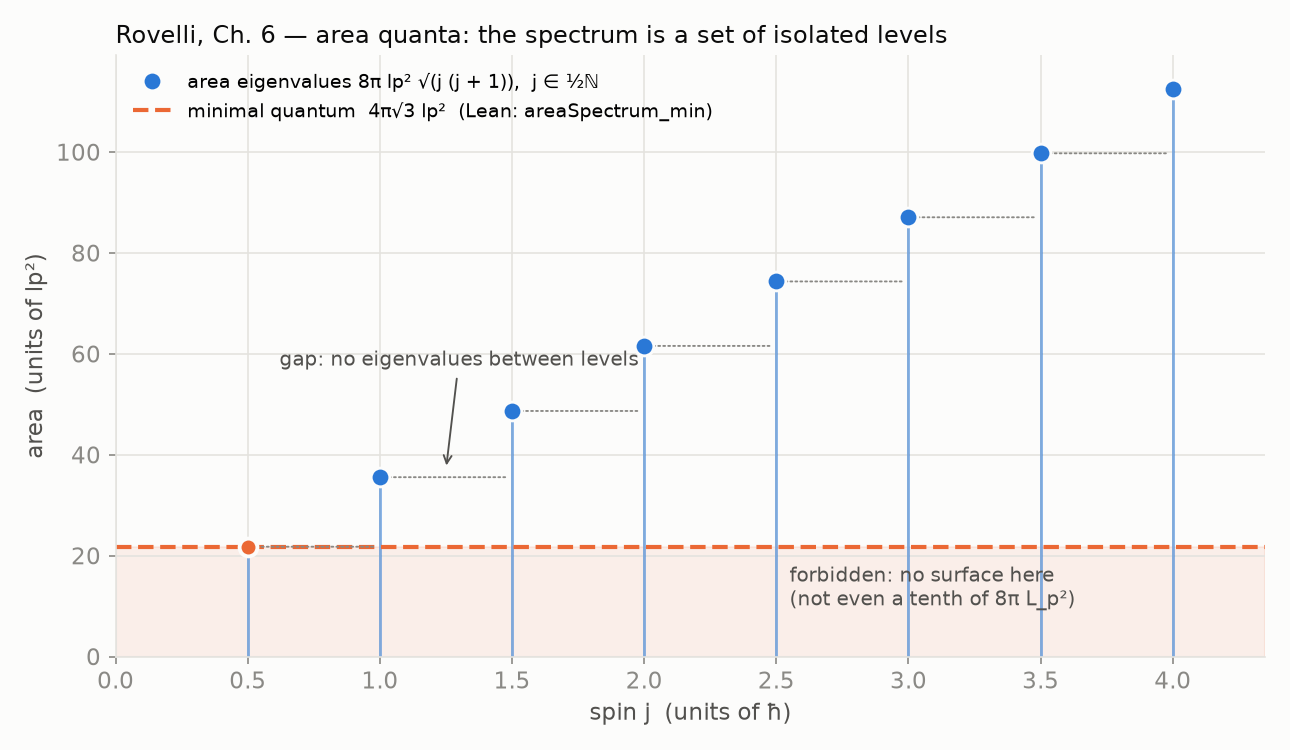
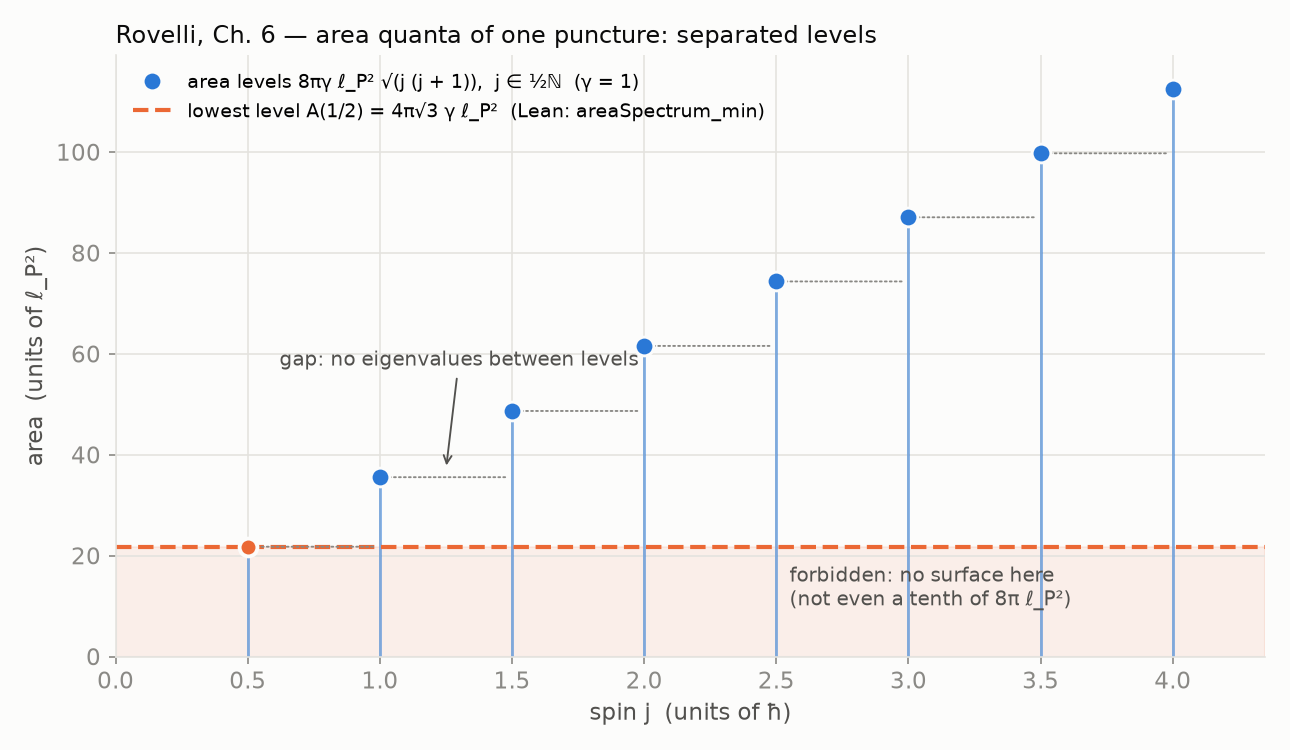
docs: exact theta_NRS(d) in figures and page, ceiling never attained

diff --git a/docs/index.html b/docs/index.html
@@ -4,7 +4,7 @@
 <meta charset="utf-8">
 <meta name="viewport" content="width=device-width, initial-scale=1">
 <title>NRS³ · Rovelli — area quanta and the localization ceiling</title>
-<meta name="description" content="The LQG area spectrum 8πγ lp²√(j(j+1)) is a ladder of isolated levels — no surface below one quantum. In NRS³ the localization angle θ(ψ) is capped by arccos(1/C∞) ≈ 28.30°; the graviton saturates the ceiling.">
+<meta name="description" content="The LQG area spectrum 8πγ lp²√(j(j+1)) is a ladder of isolated levels — no surface below one quantum. In NRS³ the localization angle θ(ψ) is capped by arccos(1/C∞) ≈ 28.30°; the ceiling is a limit no axis reaches. Horizon entropy by counting punctures fixes the Immirzi parameter.">
 <style>
   :root { --bg: #fcfcfb; --panel: #fff; --ink: #0b0b0b; --ink2: #52514e; --muted: #8a8985;
     --grid: #e4e3df; --blue: #2a78d6; --orange: #eb6834; --soft: rgba(235,104,52,.12); }
@@ -55,62 +55,65 @@
   <h1>NRS³ · Rovelli — area quanta and the localization ceiling</h1>
   <p class="lead">In loop quantum gravity (Rovelli, <i>La realidad no es lo que parece</i>, Ch. 6)
     a surface can only have area <code>A(j) = 8 π γ lp² √(j (j + 1))</code> with
-    <code>j ∈ ½ ℕ</code>: a ladder of isolated levels, with nothing — not even a tenth of
-    <code>8 π L_p²</code> — in between. In NRS³ this granularity is dimensional uncertainty: the
-    localization angle <code>θ(ψ)</code> of a state is capped by
-    <code>arccos(1/C∞) ≈ 28.30°</code>, and the graviton is the state that saturates the cap.</p>
+    <code>j ∈ ½ ℕ</code>: one puncture gives a ladder of separated levels, and no surface carries
+    a fraction of the lowest one. In NRS³ this granularity is dimensional uncertainty: the NRS
+    angle <code>θ_NRS(d) = arccos(1/C_Nava(d))</code> of an axis with <code>d</code> sites is
+    <code>0</code> for <code>d = 2, 3</code>, <code>7.43°</code> at <code>d = 4</code>, and grows toward
+    <code>arccos(1/C∞) ≈ 28.30°</code> without ever reaching it.</p>
 
   <div class="controls">
     <button type="button" id="play" aria-label="Play">▶</button>
     <label class="sl">spin j<input id="j" type="range" min="1" max="12" step="1" value="1"><b id="vj">½</b></label>
-    <label class="sl">θ(ψ) toward the ceiling<input id="th" type="range" min="0" max="28.3" step="0.05" value="7.43"><b id="vth">7.43°</b></label>
+    <label class="sl">sites d of the axis<input id="dd" type="range" min="0" max="1000" step="1" value="81"><b id="vd">4</b></label>
   </div>
 
   <div class="grid">
-    <div class="card"><h2>The area spectrum: isolated levels (units 8π lp², γ = 1)</h2>
+    <div class="card"><h2>The area spectrum of one puncture (units ℓ_P², γ = 1)</h2>
       <div class="legend">
         <span><span class="sw" style="border-color:var(--blue)"></span>area levels A(j)</span>
-        <span><span class="sw" style="border-color:var(--orange);border-top-style:dashed"></span>minimal quantum 4π√3 lp²</span>
+        <span><span class="sw" style="border-color:var(--orange);border-top-style:dashed"></span>lowest level A(1/2) = 4π√3 ℓ_P²</span>
         <span><span class="sw" style="border-color:var(--ink);border-top-style:dotted"></span>gap: no eigenvalues</span></div>
       <canvas id="spec" aria-label="LQG area spectrum stem plot"></canvas></div>
-    <div class="card"><h2>θ(ψ) against the NRS³ ceiling</h2>
+    <div class="card"><h2>θ_NRS(d) against the NRS³ ceiling</h2>
       <div class="legend">
-        <span><span class="sw" style="border-color:var(--blue)"></span>your state</span>
-        <span><span class="sw" style="border-color:var(--orange);border-top-style:dashed"></span>ceiling arccos(1/C∞) ≈ 28.30°</span>
-        <span><span class="sw" style="border-color:var(--orange);border-top-style:dotted"></span>graviton: saturates the ceiling</span></div>
+        <span><span class="sw" style="border-color:var(--blue)"></span>θ_NRS(d), exact (D37b)</span>
+        <span><span class="sw" style="border-color:var(--orange);border-top-style:dashed"></span>ceiling arccos(1/C∞) ≈ 28.30°: limit, never attained</span></div>
       <canvas id="gauge" aria-label="Localization angle gauge"></canvas></div>
   </div>
 
   <div class="readout" aria-live="polite">
     <div class="stat"><div class="k">area A(j)</div><div class="v" id="ra">–</div></div>
-    <div class="stat"><div class="k">quanta of 4π√3 lp²</div><div class="v" id="rn">–</div></div>
-    <div class="stat"><div class="k">θ(ψ)</div><div class="v" id="rt">–</div></div>
+    <div class="stat"><div class="k">A(j) / A(1/2)</div><div class="v" id="rn">–</div></div>
+    <div class="stat"><div class="k">θ_NRS(d)</div><div class="v" id="rt">–</div></div>
     <div class="stat"><div class="k">distance to the ceiling</div><div class="v" id="rd">–</div></div>
   </div>
 
   <h2>Results</h2>
   <table>
     <tr><th>Statement</th><th>Lean</th></tr>
-    <tr><td><code>A(j) = 8 π γ lp² √(j (j + 1))</code></td><td><code>areaSpectrum</code></td></tr>
-    <tr><td>separated levels: <code>0 ≤ j ≤ k</code> gives <code>A(j) ≤ A(k)</code></td><td><code>areaSpectrum_mono</code></td></tr>
-    <tr><td>every level with <code>j ≥ 1/2</code> dominates <code>4 π √3 γ lp²</code></td><td><code>areaSpectrum_min</code></td></tr>
-    <tr><td>entropy of a cut = logarithm of its puncture count</td><td><code>punctureEntropy</code></td></tr>
-    <tr><td><code>θ(ψ) ≤ arccos(1/C)</code>, the universal ceiling ≈ 28.30° (declared)</td><td><code>theta_le_ceiling</code></td></tr>
-    <tr><td>area quanta are counted δ∞ quanta (declared)</td><td><code>areaQuanta_are_defectQuanta</code></td></tr>
-    <tr><td>the graviton saturates the ceiling (declared)</td><td><code>graviton_saturates_ceiling</code></td></tr>
+    <tr><td><code>A(j) = 8 π γ ℓ_P² √(j (j + 1))</code>, Immirzi <code>γ</code> generic</td><td><code>areaSpectrum</code></td></tr>
+    <tr><td>separated levels: <code>0 ≤ j &lt; k</code> gives <code>A(j) &lt; A(k)</code></td><td><code>areaSpectrum_strictMono</code></td></tr>
+    <tr><td>lowest level <code>A(1/2) = 4 π √3 γ ℓ_P²</code>, below every <code>j ≥ 1/2</code></td><td><code>areaSpectrum_half</code>, <code>areaSpectrum_min</code></td></tr>
+    <tr><td><code>n</code> punctures have area <code>≥ n · A(1/2)</code></td><td><code>surfaceArea_ge</code></td></tr>
+    <tr><td>entropy of <code>n</code> spin-<code>j</code> punctures <code>= log (2j + 1)ⁿ</code>, additive</td><td><code>punctureEntropy_eq_log_card</code>, <code>punctureEntropy_add</code></td></tr>
+    <tr><td><code>S = A / 4ℓ_P²</code> iff <code>γ = log 2 / (π √3)</code></td><td><code>bekensteinHawking_iff_immirzi</code></td></tr>
+    <tr><td><code>θ_NRS(4) ≤ θ_NRS(d) &lt; arccos(1/C∞)</code> for <code>d ≥ 4</code></td><td><code>angle_lt_ceiling</code></td></tr>
+    <tr><td>the ceiling is the limit and the supremum, never attained</td><td><code>tendsto_angle_ceiling</code>, <code>ceiling_isLUB</code>, <code>ceiling_not_attained</code></td></tr>
   </table>
+  <p class="note">No axioms: every result depends only on <code>propext</code>,
+    <code>Classical.choice</code> and <code>Quot.sound</code>. The ceiling results are theorems of the
+    base repository (<code>D37b</code>, <code>D8</code>), imported, not declared.</p>
 
   <h2>In NRS³</h2>
-  <p class="note">1. <b>Foam / granularity = dimensional uncertainty</b>: the granularity of quantum
-    space is read as the dimensional uncertainty quantified by <code>C_Nava(d)</code> and
-    <code>θ(ψ) ∈ [0, π/2]</code>; numerically <code>θ(4) = 7.43°</code> against the ceiling
-    <code>arccos(1/C∞) ≈ 28.30°</code>.<br>
-    2. <b>Area quanta ↔ δ∞ quanta</b>: the discrete LQG spectrum corresponds to counting the δ∞
-    defect quanta of <code>nrs3-defect-curvature</code>; a surface is a cut whose entropy counts
-    its quanta (punctures).<br>
-    3. <b>The graviton</b>: in LQG it is the quantum excitation of the gravitational field — the
-    quantum Faraday lines of Ch. 6; in NRS³ it is the state of maximal localization permitted by
-    the ceiling, the top of the band <code>Ϙ(d)</code> of the base theorems D44/D46.</p>
+  <p class="note">1. <b>Granularity = dimensional uncertainty</b>: the granularity of quantum
+    space is read as the dimensional uncertainty of <code>(T_d, P_d)</code>, measured by
+    <code>θ_NRS(d)</code>: <code>0</code> at <code>d = 2, 3</code>, <code>7.43°</code> at
+    <code>d = 4</code>, strictly below <code>arccos(1/C∞) ≈ 28.30°</code> for every <code>d</code>.<br>
+    2. <b>Area quanta</b>: each puncture carries at least one lowest quantum <code>A(1/2)</code>; the
+    entropy is linear in the number of punctures, as the entropy of a cut in
+    <code>nrs3-defect-curvature</code> is linear in its δ∞ quanta (a reading, not a theorem here).<br>
+    3. <b>The graviton</b>: the maximally localized excitation has no finite-<code>d</code> state at the
+    ceiling; <code>arccos(1/C∞)</code> is a limit, approached as <code>d → ∞</code> and never reached.</p>
 
   <img class="fig" src="figures/rovelli_area_spectrum.png" alt="LQG area spectrum: isolated levels">
   <img class="fig" src="figures/rovelli_theta_punctures.png"
@@ -118,9 +121,7 @@
 
   <p class="note">Source text: Carlo Rovelli, <i>La realidad no es lo que parece</i> (2017), Ch. 5
     (quantum space-time), Ch. 6 (area and volume quanta, spin networks) and Ch. 10 (black-hole
-    entropy by counting punctures). The bridge axioms in
-    <a href="https://github.com/naype888-cloud/nrs3-rovelli-lqg">nrs3-rovelli-lqg</a> are declared
-    physical premises, as in the rest of the NRS³ series.</p>
+    entropy by counting punctures).</p>
 
   <footer>NRS Noncommercial License 1.0.0 · Author: Eduardo Nava-Hernandez ·
     <a href="https://github.com/naype888-cloud/nrs3-rovelli-lqg">github.com/naype888-cloud/nrs3-rovelli-lqg</a></footer>
@@ -129,10 +130,16 @@
 (() => {
   const $ = (id) => document.getElementById(id);
   const css = (n) => getComputedStyle(document.documentElement).getPropertyValue(n).trim();
-  const CEIL = 28.30;                    // arccos(1 / C_infty) in degrees
+  const deg = (x) => x * 180 / Math.PI;
+  const CEIL = deg(Math.acos(1 / Math.sqrt(Math.PI ** 2 / 3 - 2))); // arccos(1 / C_infty)
+  // theta_NRS(d) = arccos(1 / C_Nava(d)), C_Nava(d)^2 in closed form (D8_Szego)
+  const thetaNRS = (d) => { const n = d + 1, t = Math.PI / n;
+    const c2 = 2 * (d - 1) / (n * Math.cos(t) ** 2) * (((n * n + 2) / 6) * Math.sin(t) ** 2 - 1);
+    return deg(Math.acos(Math.min(1, 1 / Math.sqrt(c2)))); };
+  const dOf = (u) => Math.round(2 * Math.pow(5000, u / 1000)); // slider 0..1000 -> d = 2..10000
   const A = (j) => 8 * Math.PI * Math.sqrt(j * (j + 1)); // units lp^2, gamma = 1
   const JMIN = A(0.5), JMAX = 6.5;
-  let js = 1, th = 7.43, playing = false, last = 0;
+  let js = 1, du = 81, playing = false, last = 0, acc = 0;
 
   function setup(c) {
     const r = c.getBoundingClientRect(), dpr = window.devicePixelRatio || 1;
@@ -152,7 +159,7 @@
     g.fillStyle = css("--soft"); g.fillRect(L, Y(JMIN), W, T + H - Y(JMIN));
     g.strokeStyle = css("--orange"); g.lineWidth = 2; g.setLineDash([7, 5]); g.beginPath();
     g.moveTo(L, Y(JMIN)); g.lineTo(L + W, Y(JMIN)); g.stroke(); g.setLineDash([]);
-    g.fillStyle = css("--orange"); g.fillText("minimal quantum 4π√3 lp²", L + 6, Y(JMIN) - 6);
+    g.fillStyle = css("--orange"); g.fillText("lowest level A(1/2) = 4π√3 ℓ_P²", L + 6, Y(JMIN) - 6);
     // levels: isolated stems; the gap between consecutive levels is dotted
     const sel = js / 2;
     for (let j = 0.5; j <= 6; j += 0.5) {
@@ -165,11 +172,11 @@
       g.beginPath(); g.arc(X(j), Y(A(j)), on ? 7 : 4.5, 0, 2 * Math.PI); g.fill();
     }
     g.fillStyle = css("--ink2"); g.font = "12.5px system-ui, sans-serif";
-    g.fillText("no level below the first rung — not even a tenth of 8π L_p²", L + 6, T + H - 10);
+    g.fillText("no surface below the first rung", L + 6, T + H - 10);
   }
 
   function drawGauge() {
-    const [g, w, h] = setup($("gauge")), cx = w / 2, cy = h * 0.82, S = Math.min(w / 2.3, h * 0.72);
+    const [g, w, h] = setup($("gauge")), cx = w / 2, cy = h * 0.78, S = Math.min(w / 2.3, h * 0.72);
     const a0 = Math.PI, a1 = 0; // half disc, 0..90 deg left to right
     const P = (deg) => { const a = a0 + (deg / 90) * (a1 - a0);
       return [cx + S * Math.cos(a), cy - S * Math.sin(a)]; };
@@ -187,38 +194,35 @@
     g.strokeStyle = css("--orange"); g.lineWidth = 2; g.setLineDash([7, 5]);
     g.beginPath(); g.moveTo(cx, cy); const pc = P(CEIL); g.lineTo(pc[0], pc[1]); g.stroke(); g.setLineDash([]);
     g.fillStyle = css("--orange"); g.fillText("ceiling ≈ 28.30°", Math.max(4, pc[0] - 96), pc[1] - 8);
-    // the graviton: a state saturating the ceiling
-    const pg = P(CEIL);
-    g.fillStyle = css("--orange"); g.font = "15px system-ui, sans-serif";
-    g.fillText("★", pg[0] - 8, pg[1] + 6);
-    g.font = "11px system-ui, sans-serif"; g.fillText("graviton", Math.min(w - 52, pg[0] + 6), pg[1] + 4);
-    // the state marker
-    const p = P(th);
+    // the axis with d sites
+    const dd = dOf(du), th = thetaNRS(dd), p = P(th);
     g.strokeStyle = css("--blue"); g.lineWidth = 3; g.beginPath(); g.moveTo(cx, cy); g.lineTo(p[0], p[1]); g.stroke();
     g.fillStyle = css("--blue"); g.beginPath(); g.arc(p[0], p[1], 6, 0, 2 * Math.PI); g.fill();
-    g.fillStyle = css("--ink2"); g.fillText("θ(ψ) = " + th.toFixed(2) + "°", cx - 30, cy - 8);
+    g.fillStyle = css("--ink2"); g.textAlign = "center"; g.fillText("θ_NRS(" + dd + ") = " + th.toFixed(3) + "°", cx, cy + 20);
+    g.textAlign = "start";
   }
 
   function update() {
     drawSpec(); drawGauge();
     const j = js / 2, a = A(j);
-    $("ra").textContent = a.toFixed(2) + " lp²";
-    $("rn").textContent = (a / JMIN).toFixed(2) + " quanta";
-    $("rt").textContent = th.toFixed(2) + "°";
-    $("rd").textContent = (CEIL - th).toFixed(2) + "°";
-    $("vj").textContent = (j % 1 === 0) ? j.toFixed(0) : Math.floor(j) + "½";
-    $("vth").textContent = th.toFixed(2) + "°";
+    const dd = dOf(du), th = thetaNRS(dd);
+    $("ra").textContent = a.toFixed(2) + " ℓ_P²";
+    $("rn").textContent = (a / JMIN).toFixed(3);
+    $("rt").textContent = th.toFixed(3) + "°";
+    $("rd").textContent = (CEIL - th).toFixed(3) + "° > 0";
+    $("vd").textContent = dd;
+    $("vj").textContent = (j % 1 === 0) ? j.toFixed(0) : (j < 1 ? "" : Math.floor(j)) + "½";
   }
 
   function tick(ts) {
     const dt = last ? Math.min(.05, (ts - last) / 1000) : 0; last = ts;
-    if (playing) { th += dt * 4; if (th > CEIL) th = 0; $("th").value = th;
-      js = js % 12 + 1; $("j").value = js; }
+    if (playing) { du = (du + dt * 120) % 1001; $("dd").value = du; acc += dt;
+      if (acc > 0.7) { acc = 0; js = js % 12 + 1; $("j").value = js; } }
     update(); requestAnimationFrame(tick);
   }
 
   $("j").addEventListener("input", (e) => { js = +e.target.value; });
-  $("th").addEventListener("input", (e) => { th = +e.target.value; });
+  $("dd").addEventListener("input", (e) => { du = +e.target.value; });
   $("play").addEventListener("click", (e) => { playing = !playing;
     e.target.textContent = playing ? "❚❚" : "▶";
     e.target.setAttribute("aria-label", playing ? "Pause" : "Play"); });

diff --git a/docs/simulation/figures_rovelli.py b/docs/simulation/figures_rovelli.py
@@ -1,18 +1,18 @@
-"""Figures for nrs3-rovelli-lqg: LQG area quanta and the NRS³ bridge (numpy, matplotlib).
+"""Figures for nrs3-rovelli-lqg: LQG area quanta and the NRS³ ceiling (numpy, matplotlib).
 
 Writes docs/figures/rovelli_area_spectrum.png and docs/figures/rovelli_theta_punctures.png.
 
-Figure 1: the discrete LQG area spectrum A(j) = 8 pi gamma lp^2 sqrt(j (j + 1)) for the
-first half-integer levels j = 1/2, 1, 3/2, ... (gamma = 1, lp = 1 units). The levels are
-isolated points: there are no intermediate surfaces ("no tenth of 8 pi L_p^2"), and every
-level with j >= 1/2 dominates the minimal quantum 4 pi sqrt(3) (Lean: areaSpectrum_min).
+Figure 1: the LQG area spectrum A(j) = 8 pi gamma lp^2 sqrt(j (j + 1)), j = 1/2, 1, 3/2, ...
+(plotted with gamma = 1, lp = 1). Every level with j >= 1/2 is at least A(1/2) = 4 pi sqrt(3)
+(Lean: areaSpectrum_min, areaSpectrum_strictMono).
 
-Figure 2 (left): the NRS³ localization angle theta(psi) in [0, pi/2] with the universal
-ceiling arccos(1/C_infty) ~ 28.30 deg; the numerical example in dimension d = 4 is
-theta(4) = 7.43 deg, and the graviton is declared as a state saturating the ceiling
-(Lean bridge: graviton_saturates_ceiling).
-Figure 2 (right): a surface is a cut whose entropy counts its delta-infinity quanta
-(punctures): S(n) = log n (Lean: punctureEntropy, surface_entropy_counts_punctures).
+Figure 2 (left): the exact NRS angle theta_NRS(d) = arccos(1 / C_Nava(d)) of the base
+repository (D37b, D8 closed form). theta = 0 at d = 2, 3 (Robertson saturates),
+theta_NRS(4) = 7.43 deg, and the ceiling arccos(1 / C_infty) = 28.30 deg is the limit,
+never attained (Lean: angle_lt_ceiling, ceiling_not_attained, tendsto_angle_ceiling).
+Figure 2 (right): n punctures of spin 1/2 have entropy S = n log 2; Bekenstein-Hawking
+S = A / (4 lp^2) holds exactly at gamma = log 2 / (pi sqrt 3) (Lean:
+bekensteinHawking_iff_immirzi).
 
 Run:  python3 docs/simulation/figures_rovelli.py
 """
@@ -23,9 +23,21 @@ import numpy as np
 from style import BLUE, INK, INK2, MUTED, ORANGE, OUT, SURFACE
 
 SQRT3 = np.sqrt(3.0)
-# NRS³ universal ceiling: arccos(1 / C_infty) ~ 28.30 deg (base theorem D48).
-CEIL_DEG = 28.30
-THETA4_DEG = 7.43  # numerical example in dimension d = 4 (base repository)
+# C_Nava(d)^2 in closed form (D8_Szego.CoherenceConstantSq), N = d + 1, t = pi / N.
+def coherence_sq(d):
+    n = d + 1.0
+    t = np.pi / n
+    return 2 * (d - 1) / (n * np.cos(t) ** 2) * (((n * n + 2) / 6) * np.sin(t) ** 2 - 1)
+
+
+def angle_nrs_deg(d):
+    """theta_NRS(d) = arccos(1 / C_Nava(d)) in degrees (D37b); 0 at d = 2, 3."""
+    return np.degrees(np.arccos(np.clip(1 / np.sqrt(coherence_sq(d)), -1, 1)))
+
+
+CEIL_DEG = np.degrees(np.arccos(1 / np.sqrt(np.pi ** 2 / 3 - 2)))  # 28.2978 deg
+THETA4_DEG = angle_nrs_deg(4)  # 7.4348 deg
+GAMMA_BH = np.log(2) / (np.pi * SQRT3)  # 0.12738
 
 
 def area(j):
@@ -40,13 +52,13 @@ def fig_area_spectrum():
 
     fig, ax = plt.subplots(figsize=(8.6, 5.0), dpi=150)
     ax.plot(js, a, "o", color=BLUE, ms=9, mec=SURFACE, mew=1.4, zorder=5,
-            label="area eigenvalues 8π lp² √(j (j + 1)),  j ∈ ½ℕ")
+            label="area levels 8πγ ℓ_P² √(j (j + 1)),  j ∈ ½ℕ  (γ = 1)")
     ax.vlines(js, 0, a, color=BLUE, lw=1.4, alpha=0.55)
 
     # forbidden band: no surface below the minimal quantum
     ax.axhspan(0, amin, color=ORANGE, alpha=0.09)
     ax.axhline(amin, color=ORANGE, lw=2, ls="--",
-               label="minimal quantum  4π√3 lp²  (Lean: areaSpectrum_min)")
+               label="lowest level A(1/2) = 4π√3 γ ℓ_P²  (Lean: areaSpectrum_min)")
     ax.plot([jmin], [amin], "o", color=ORANGE, mec=SURFACE, mew=1.3, ms=8, zorder=6)
 
     # there is no level between j and j+1: mark the gaps
@@ -54,7 +66,7 @@ def fig_area_spectrum():
         ax.annotate("", (j1, area(j0)), (j0, area(j0)),
                     arrowprops=dict(arrowstyle="-", color=MUTED, lw=0.9, ls=":"))
     ax.text(2.55, 0.62 * amin, "forbidden: no surface here\n"
-            "(not even a tenth of 8π L_p²)", color=INK2, fontsize=9.5, va="center")
+            "(not even a tenth of 8π ℓ_P²)", color=INK2, fontsize=9.5, va="center")
     ax.annotate("gap: no eigenvalues between levels", (1.25, area(1.0) + 1.5),
                 (0.62, area(1.5) + 9.0), color=INK2, fontsize=9.5,
                 arrowprops=dict(arrowstyle="->", color=INK2, lw=0.9))
@@ -62,9 +74,9 @@ def fig_area_spectrum():
     ax.set_xlim(0, 4.35)
     ax.set_ylim(0, 1.06 * a[-1])
     ax.set_xlabel("spin j  (units of ħ)")
-    ax.set_ylabel("area  (units of lp²)")
+    ax.set_ylabel("area  (units of ℓ_P²)")
     ax.legend(loc="upper left", fontsize=9.3)
-    ax.set_title("Rovelli, Ch. 6 — area quanta: the spectrum is a set of isolated levels",
+    ax.set_title("Rovelli, Ch. 6 — area quanta of one puncture: separated levels",
                  loc="left", fontsize=11.5)
 
     fig.tight_layout()
@@ -73,51 +85,46 @@ def fig_area_spectrum():
 
 
 def fig_theta_punctures():
-    fig, (ax, bx) = plt.subplots(1, 2, figsize=(11.8, 4.7), dpi=150,
-                                 gridspec_kw={"width_ratios": [1, 1]})
+    fig, (ax, bx) = plt.subplots(1, 2, figsize=(11.8, 4.7), dpi=150)
 
-    # Left: the NRS³ localization angle and its ceiling
-    d = np.linspace(1, 12, 300)
-    # theta(d) rising toward the ceiling (illustrative curve through theta(4) = 7.43 deg)
-    theta = CEIL_DEG * (1 - np.exp(-(d - 1) / 9.85))
-    ax.plot(d, theta, color=BLUE, lw=2.2,
-            label="θ(ψ) for states in the band Ϙ(d) (illustrative)")
+    # Left: the exact NRS angle and its ceiling
+    ds = np.arange(2, 201)
+    th = angle_nrs_deg(ds)
+    ax.plot(ds, th, "o", color=BLUE, ms=3.2, label="θ_NRS(d) = arccos(1/C_Nava(d))  (D37b)")
     ax.axhline(CEIL_DEG, color=ORANGE, lw=2, ls="--",
-               label="ceiling  arccos(1/C∞) ≈ 28.30°")
-    ax.plot([4], [THETA4_DEG], "o", color=BLUE, ms=8, mec=SURFACE, mew=1.3, zorder=6)
-    ax.vlines(4, 0, THETA4_DEG, color=MUTED, lw=0.9, ls=":")
-    ax.plot([10.5], [CEIL_DEG], "*", color=ORANGE, ms=13, mec=SURFACE, mew=1.1, zorder=6)
-    ax.text(4.25, THETA4_DEG + 0.7, "θ(4) = 7.43°  (numerical example)", color=INK2,
-            fontsize=9.5)
-    ax.text(10.3, CEIL_DEG - 2.6, "graviton:\nstate saturating\nθ(ψ) = arccos(1/C)",
-            color=ORANGE, fontsize=9.5, ha="right", va="top")
-    ax.set_xlim(1, 12)
+               label=f"ceiling arccos(1/C∞) = {CEIL_DEG:.2f}°  (limit, never attained)")
+    ax.plot([4], [THETA4_DEG], "o", color=ORANGE, ms=7, mec=SURFACE, mew=1.2, zorder=6)
+    ax.annotate(f"θ_NRS(4) = {THETA4_DEG:.2f}°  (floor, d ≥ 4)", (4, THETA4_DEG),
+                (5.2, 2.2), color=INK2, fontsize=9.5,
+                arrowprops=dict(arrowstyle="->", color=INK2, lw=0.9))
+    ax.annotate("d = 2, 3: θ = 0\n(Robertson saturates)", (2.5, 0.2), (2.2, 11.0),
+                color=INK2, fontsize=9.5, arrowprops=dict(arrowstyle="->", color=INK2, lw=0.9))
+    ax.set_xscale("log")
+    ax.set_xlim(1.8, 220)
     ax.set_ylim(0, 32)
-    ax.set_xlabel("dimension d")
-    ax.set_ylabel("localization angle  θ(ψ)  (degrees)")
-    ax.legend(loc="lower right", fontsize=8.8)
-    ax.set_title("NRS³ ceiling: θ(ψ) ∈ [0, π/2], bounded by ≈ 28.30°", loc="left",
+    ax.set_xlabel("sites d of the axis  (log scale)")
+    ax.set_ylabel("NRS angle  (degrees)")
+    ax.legend(loc="center right", bbox_to_anchor=(1.0, 0.42), fontsize=8.6)
+    ax.set_title("Granularity as dimensional uncertainty: θ_NRS(d) < 28.30°", loc="left",
                  fontsize=11.5)
 
-    # Right: puncture counting entropy
-    n = np.arange(1, 41)
-    bx.plot(n, np.log(n), color=BLUE, lw=2.2, label="S(n) = log n   (Lean: punctureEntropy)")
-    bx.plot(n, np.sqrt(n), color=MUTED, lw=1.2, ls=":",
-            label="√n (would-be scaling, for contrast)")
-    for k in [1, 4, 16, 36]:
-        bx.plot([k], [np.log(k)], "o", color=ORANGE, ms=6, mec=SURFACE, mew=1, zorder=6)
-    bx.annotate("each puncture = one δ∞ quantum\n(one loop through the surface)",
-                (4, np.log(4)), (8, 1.15), color=INK2, fontsize=9.5,
-                arrowprops=dict(arrowstyle="->", color=INK2, lw=0.9))
-    bx.set_xlim(0, 41)
-    bx.set_ylim(0, 4.6)
-    bx.set_xlabel("number of punctures n  (δ∞ quanta of the cut)")
-    bx.set_ylabel("entropy of the cut")
-    bx.legend(loc="lower right", fontsize=8.8)
+    # Right: entropy by counting spin-1/2 punctures vs Bekenstein-Hawking A / (4 lp^2)
+    n = np.arange(0, 41)
+    a_half = 4 * np.pi * SQRT3  # A(1/2) / gamma, lp = 1
+    bx.plot(n, n * np.log(2), color=BLUE, lw=2.4, label="S = n log 2  (2ⁿ puncture states)")
+    bx.plot(n, n * GAMMA_BH * a_half / 4, color=ORANGE, lw=1.6, ls="--",
+            label=f"A / 4ℓ_P²  at  γ = log 2 / (π√3) = {GAMMA_BH:.4f}")
+    bx.plot(n, n * 0.2 * a_half / 4, color=MUTED, lw=1.2, ls=":",
+            label="A / 4ℓ_P²  at  γ = 0.2  (no match)")
+    bx.set_xlim(0, 40)
+    bx.set_ylim(0, 40)
+    bx.set_xlabel("number of punctures n  (quanta of area through the horizon)")
+    bx.set_ylabel("entropy  (units of k_B)")
+    bx.legend(loc="upper left", fontsize=8.6)
     bx.set_title("Rovelli, Ch. 10 — entropy by counting punctures", loc="left",
                  fontsize=11.5)
 
-    fig.suptitle("NRS³ · Rovelli — granular space and the localization ceiling", x=0.01,
+    fig.suptitle("NRS³ · Rovelli — the localization ceiling and horizon entropy", x=0.01,
                  ha="left", fontsize=13, color=INK)
     fig.tight_layout()
     fig.savefig(OUT / "rovelli_theta_punctures.png", facecolor=SURFACE)
